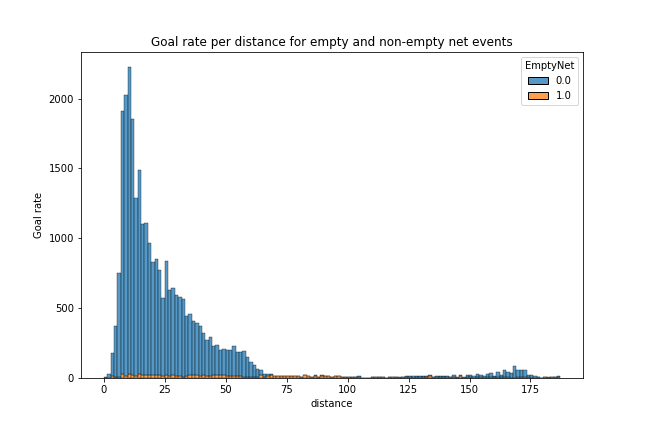
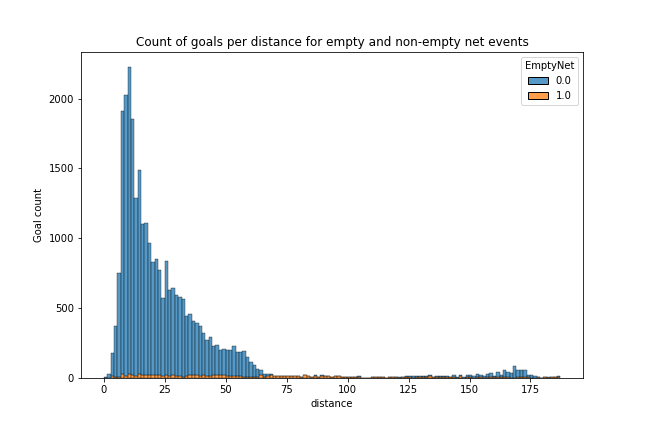
anomaly detection

Changed region(s): [[0.216, 0.0903, 0.8333, 0.1204], [0.0309, 0.4514, 0.0617, 0.5718]]

diff --git a/_posts/2021-11-21-Milestone2.md b/_posts/2021-11-21-Milestone2.md
@@ -57,7 +57,7 @@ This figure confirms previous observations.
 We have higher goal rates for lower distances.
 Players have more success rate when they are close to the net.
 
-Figure 2.4 shows the goal rate per angle.
+Figure 2.5 shows the goal rate per angle.
 
 <figure> 
 <img src="/assets/milestone2/2-goals-rate-angle-1.png" alt="" style="margin:auto;float:right; width:50%; padding:5px;">
@@ -70,10 +70,40 @@ We have high goal rate when they are straight ahead the net (90°) and it is mor
 
 
 ### Question 3
+
+Figure 2.6 shows the count of goals binned by distance for empty and non-empty net events.
+
 <figure> 
 <img src="/assets/milestone2/2-goals-distance-net.png" alt="" style="margin:auto;">
 <figcaption style="text-align:center;">Figure 2.6: Goals count binned by distance for empty and non-empty net events</figcaption>
 </figure>
+
+Goal count is high for low distances and it more difficult to score from high distances especially from defensive zone.
+In real world, it is incredibly rare to score a non-empty net goal from whithin the defensive zone.
+
+In order to detect an event with incorrect features, we sorted the goals with distance (decreasing order) and we filtered the events to keep non-empty net goals.
+Then, we selected the events in the top of that list (i.e. non-empty net goals with highest distances). 
+
+We identified these goal events and watched them online in the internet (NHL gamecenter and Youtube) and checked if the features of these goal events are correct or not.
+
+Most of these identified events had incorrect features according to the videos that we have seen.
+
+On of the identified events is shown in Figure 2.6.
+
+<figure> 
+<img src="/assets/milestone2/2-anomaly.png" alt="" style="margin:auto;">
+<figcaption style="text-align:center;">Figure 2.6: Example of event with incorrect (x,y) features</figcaption>
+</figure>
+
+According to the NHL API, this goal was scored from *(-97, 21)* while the net is non-empty and the team of the shooter is on the left rink side. Thus, we conclude that this goal was scored from an approximate distance of *187 ft* (see Figure 2.6).
+
+These are links to the video of this goal:
+
+ - Youtube: [https://youtu.be/uddEunFRpko?t=145](https://youtu.be/uddEunFRpko?t=145) 
+ - NHL center: [https://www.nhl.com/video/mackenzie-buries-the-one-timer/t-277350912/c-47688603](https://www.nhl.com/video/mackenzie-buries-the-one-timer/t-277350912/c-47688603)
+
+When watching the goal video, we noticed that the *(x, y)* coordinates where incorrect.
+The goal was scored from a closer distance to the net.
 
 
 
